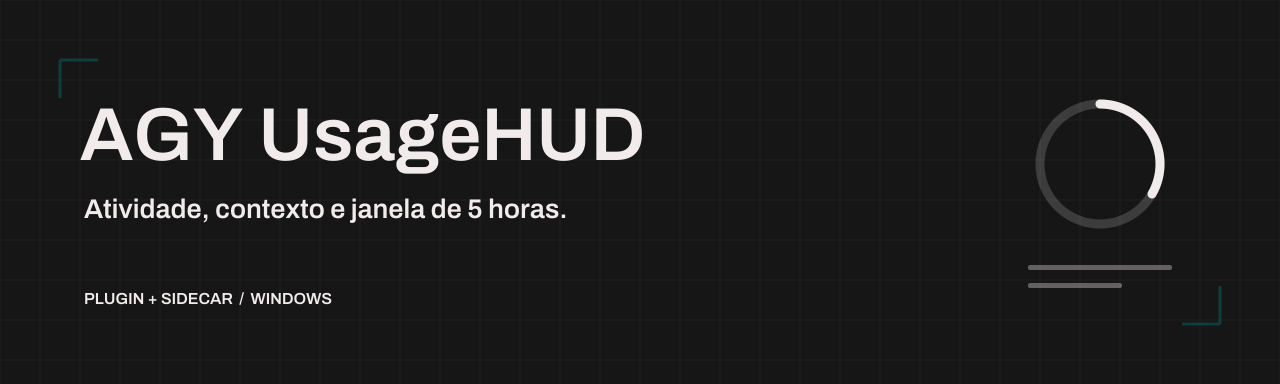
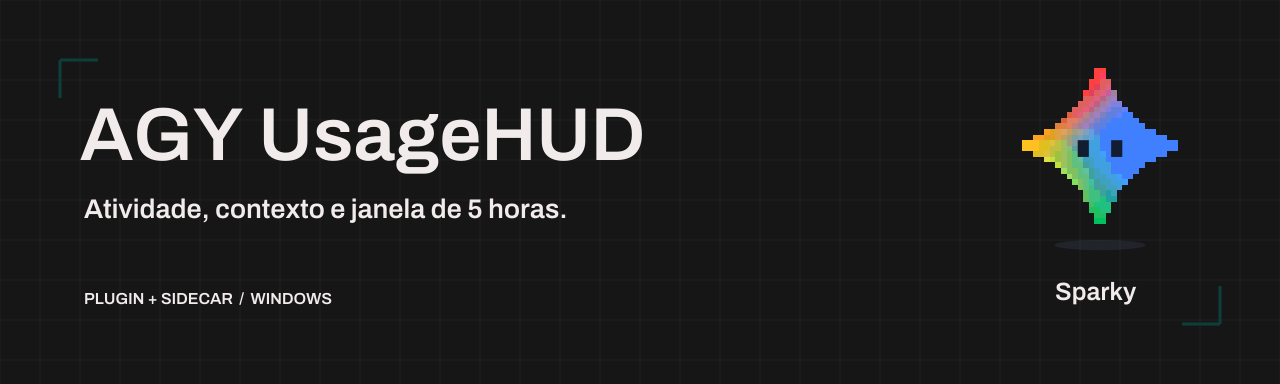
feat: apresenta Sparky e documenta suas reacoes

Changed region(s): [[0.7812, 0.1875, 0.9375, 0.5938], [0.7812, 0.6875, 0.9375, 0.7812]]

diff --git a/propostas/correcao-runtime-2026-11-01/index.html b/propostas/correcao-runtime-2026-11-01/index.html
@@ -483,7 +483,7 @@ p, h1, h2, dl, dd { margin: 0; }
     </header>
 
     <div class="companion-dock">
-      <div id="companion-slot"></div>
+      <div id="companion-slot" role="img" aria-label="Sparky, mascote da atividade da sessão"></div>
       <div class="companion-dock-text">
         <span class="activity-caption">Atividade da sessão</span>
         <strong id="companion-state">À disposição</strong>

diff --git a/sidecars/usage_hud/ui.html b/sidecars/usage_hud/ui.html
@@ -483,7 +483,7 @@ p, h1, h2, dl, dd { margin: 0; }
     </header>
 
     <div class="companion-dock">
-      <div id="companion-slot"></div>
+      <div id="companion-slot" role="img" aria-label="Sparky, mascote da atividade da sessão"></div>
       <div class="companion-dock-text">
         <span class="activity-caption">Atividade da sessão</span>
         <strong id="companion-state">À disposição</strong>

diff --git a/README.md b/README.md
@@ -15,7 +15,7 @@ Plugin independente para o Antigravity, com um painel lateral de atividade da se
 
 ## Sobre o projeto
 
-O HUD mantém os sinais da sessão visíveis enquanto você trabalha no Antigravity. O mascote acompanha atividades como leitura de arquivos, pesquisa, edição e uso do terminal.
+O HUD mantém os sinais da sessão visíveis enquanto você trabalha no Antigravity. **Sparky**, o mascote de estrelinha com olhos, acompanha atividades como leitura de arquivos, pesquisa, edição e uso do terminal.
 
 O plugin reúne manifesto, hooks, uma skill de handoff e um sidecar. O Antigravity gerencia o processo do sidecar; ele executa um servidor HTTP em loopback e fornece a página do painel. É uma integração local com o aplicativo, sem publicação no marketplace oficial.
 
@@ -23,7 +23,7 @@ Interface em português do Brasil. A versão atual foi validada localmente no Wi
 
 ## Demonstração e recursos
 
-<p align="center"><img src="assets/painel.png" alt="Painel UsageHUD com mascote, subagentes, janela de 5 horas e contexto" width="420"></p>
+<p align="center"><img src="assets/painel.png" alt="Painel UsageHUD com Sparky, subagentes, janela de 5 horas e contexto" width="420"></p>
 
 Captura da interface do runtime renderizada com dados de demonstração. Os testes visuais utilizam o preload real do Antigravity; a imagem não representa uma sessão ou uma cota real.
 
@@ -33,6 +33,36 @@ Captura da interface do runtime renderizada com dados de demonstração. Os test
 - Temas claro e escuro, pausa das animações e respeito a movimento reduzido.
 
 A disponibilidade dos dados depende do Antigravity. A cota usa a informação do host quando acessível; o fallback da janela de 5 horas é uma estimativa baseada nos dados locais. Não substitui a informação oficial de uso da conta.
+
+### Conheça o Sparky
+
+Sparky é a estrelinha colorida com olhos de bloco que acompanha a sessão. As expressões, os acessórios e os movimentos ajudam a reconhecer a atividade sem precisar ler cada chamada de ferramenta.
+
+<p align="center"><img src="assets/sparky-reacoes.gif" alt="Nove reações animadas do Sparky: disponível, pensando, pesquisa, leitura, busca, edição, terminal, subagentes e pergunta" width="540"></p>
+
+Demonstração de nove reações, renderizada a partir das mesmas animações do painel. As atividades do GIF são exemplos; não indicam ferramentas ou subagentes reais em execução.
+
+| Reação | Quando aparece | O que muda no Sparky |
+| --- | --- | --- |
+| À disposição | Aguardando a próxima mensagem | Olhos abertos, piscadas e flutuação suave. |
+| Pensando | O modelo prepara a próxima resposta | Olhos semicerrados, olhar deslocado e balão com três pontos pulsando. |
+| Pesquisa na web | Chamada de `search_web` | Globo com movimento suave, olhar que percorre o ambiente e variação na abertura de um olho. |
+| Lendo uma página | Chamada de `read_url_content` | Óculos, olhos menores, olhar de leitura e ícone de página. |
+| Lendo um arquivo | Chamada de `read_file` ou `view_file` | Óculos, olhar que acompanha linhas e leve inclinação do corpo. |
+| Buscando no projeto | Busca ou listagem de arquivos | Olhos com aberturas diferentes e ícone de pasta com lupa. |
+| Editando arquivo | Escrita ou alteração de um arquivo | Olhos mais estreitos, corpo inclinado e lápis em movimento. |
+| Comando no terminal | Execução de comando ou gestão de tarefa | Olhar concentrado, pequeno terminal e cursor piscando. |
+| Coordenando subagentes | Chamada de ferramentas de subagentes ou informação de atividade disponível | Dois pequenos companheiros flutuantes e olhar lateral. A lista mostra os agentes detectados. |
+| Pergunta para você | Pergunta ou pedido de permissão | Olhos assimétricos e balão com interrogação. |
+| Gerando imagem | Chamada de `generate_image` | Ícone de imagem ao lado da estrelinha. |
+| Usando ferramenta | Ferramenta sem uma reação específica mapeada | Expressão básica e símbolo de ferramenta/conexão. |
+| Aguardando próxima ação | Uma chamada retornou e a sessão aguarda o próximo passo | Olhos menores, sem acessório de ferramenta. |
+| Encerramento | Pose usada nas linhas de subagentes sem execução ativa | Olhos semicerrados, sem piscada nessa pose e símbolo de pausa. Não confirma sucesso da tarefa. |
+| Erro na ferramenta | O evento recebido informa erro | Olhos com aberturas diferentes e sinal de exclamação. |
+
+O movimento de base combina flutuação em ciclos de 4 segundos, oito quadros de variação de cores em 8 segundos e piscadas em ciclos de 6,5 segundos. A sombra acompanha a flutuação. Esses movimentos não representam percentual de cota nem comprovam, por si só, uma tarefa em execução.
+
+O botão de pausa interrompe as animações. Com a preferência de sistema **movimento reduzido**, as animações também são desativadas. Os estados dependem dos eventos e metadados que o Antigravity disponibiliza.
 
 ## Começar a usar
 
@@ -86,7 +116,7 @@ Google Sans Flex mantém sua licença OFL. O símbolo Gemini e os nomes de produ
 
 Criado por Alison Cruz / **BALISON**.
 
-Distribuído sob a [licença MIT](LICENSE), com os avisos de materiais de terceiros indicados acima.
+Distribuído sob a [licença MIT](LICENSE).
 
 <picture>
   <source media="(prefers-color-scheme: dark)" srcset="assets/balison-dark.svg">

diff --git a/INTEGRACAO-V7.md b/INTEGRACAO-V7.md
@@ -160,3 +160,5 @@ Aplicação local conferida em 2026-11-01: %USERPROFILE%\.gemini\config\plugins\
 - sync.bat usa USERPROFILE em vez de um nome de usuário fixo e também copia a licença MIT, os avisos de terceiros e as licenças das fontes.
 - A release v1.0.0 acompanha a versão 1.0.0 de plugin.json. O pacote de runtime exclui .git, .worktrees, propostas, capturas de desenvolvimento e testes.
 - O histórico Git contém a evolução original. Não foram inventadas datas ou versões históricas nem reescritos os commits de criação.
+
+Sparky é o nome confirmado por Bali para o mascote em 2026-11-01. A capa usa a mesma estrelinha com olhos do runtime, em assets/sparky.svg; o nome também identifica o mascote para tecnologias assistivas no painel.

diff --git a/THIRD_PARTY_NOTICES.md b/THIRD_PARTY_NOTICES.md
@@ -14,7 +14,7 @@ A fonte não é relicenciada sob MIT.
 
 ## Símbolo Gemini e nomes Google
 
-O mascote e as propostas preservadas usam o símbolo colorido do Gemini como recurso gráfico de origem Google, com camadas de expressão e animação implementadas pelo projeto.
+Sparky é o nome do mascote deste projeto. Ele e as propostas preservadas usam o símbolo colorido do Gemini como recurso gráfico de origem Google, com camadas de expressão e animação implementadas pelo projeto.
 
 - Recurso de referência: [símbolo Gemini hospedado pelo Google](https://www.gstatic.com/lamda/images/gemini_sparkle_4g_512_lt_f94943af3be039176192d.png).
 - Referência de marca: [Google Brand Resource Center](https://about.google/brand-resource-center/).
